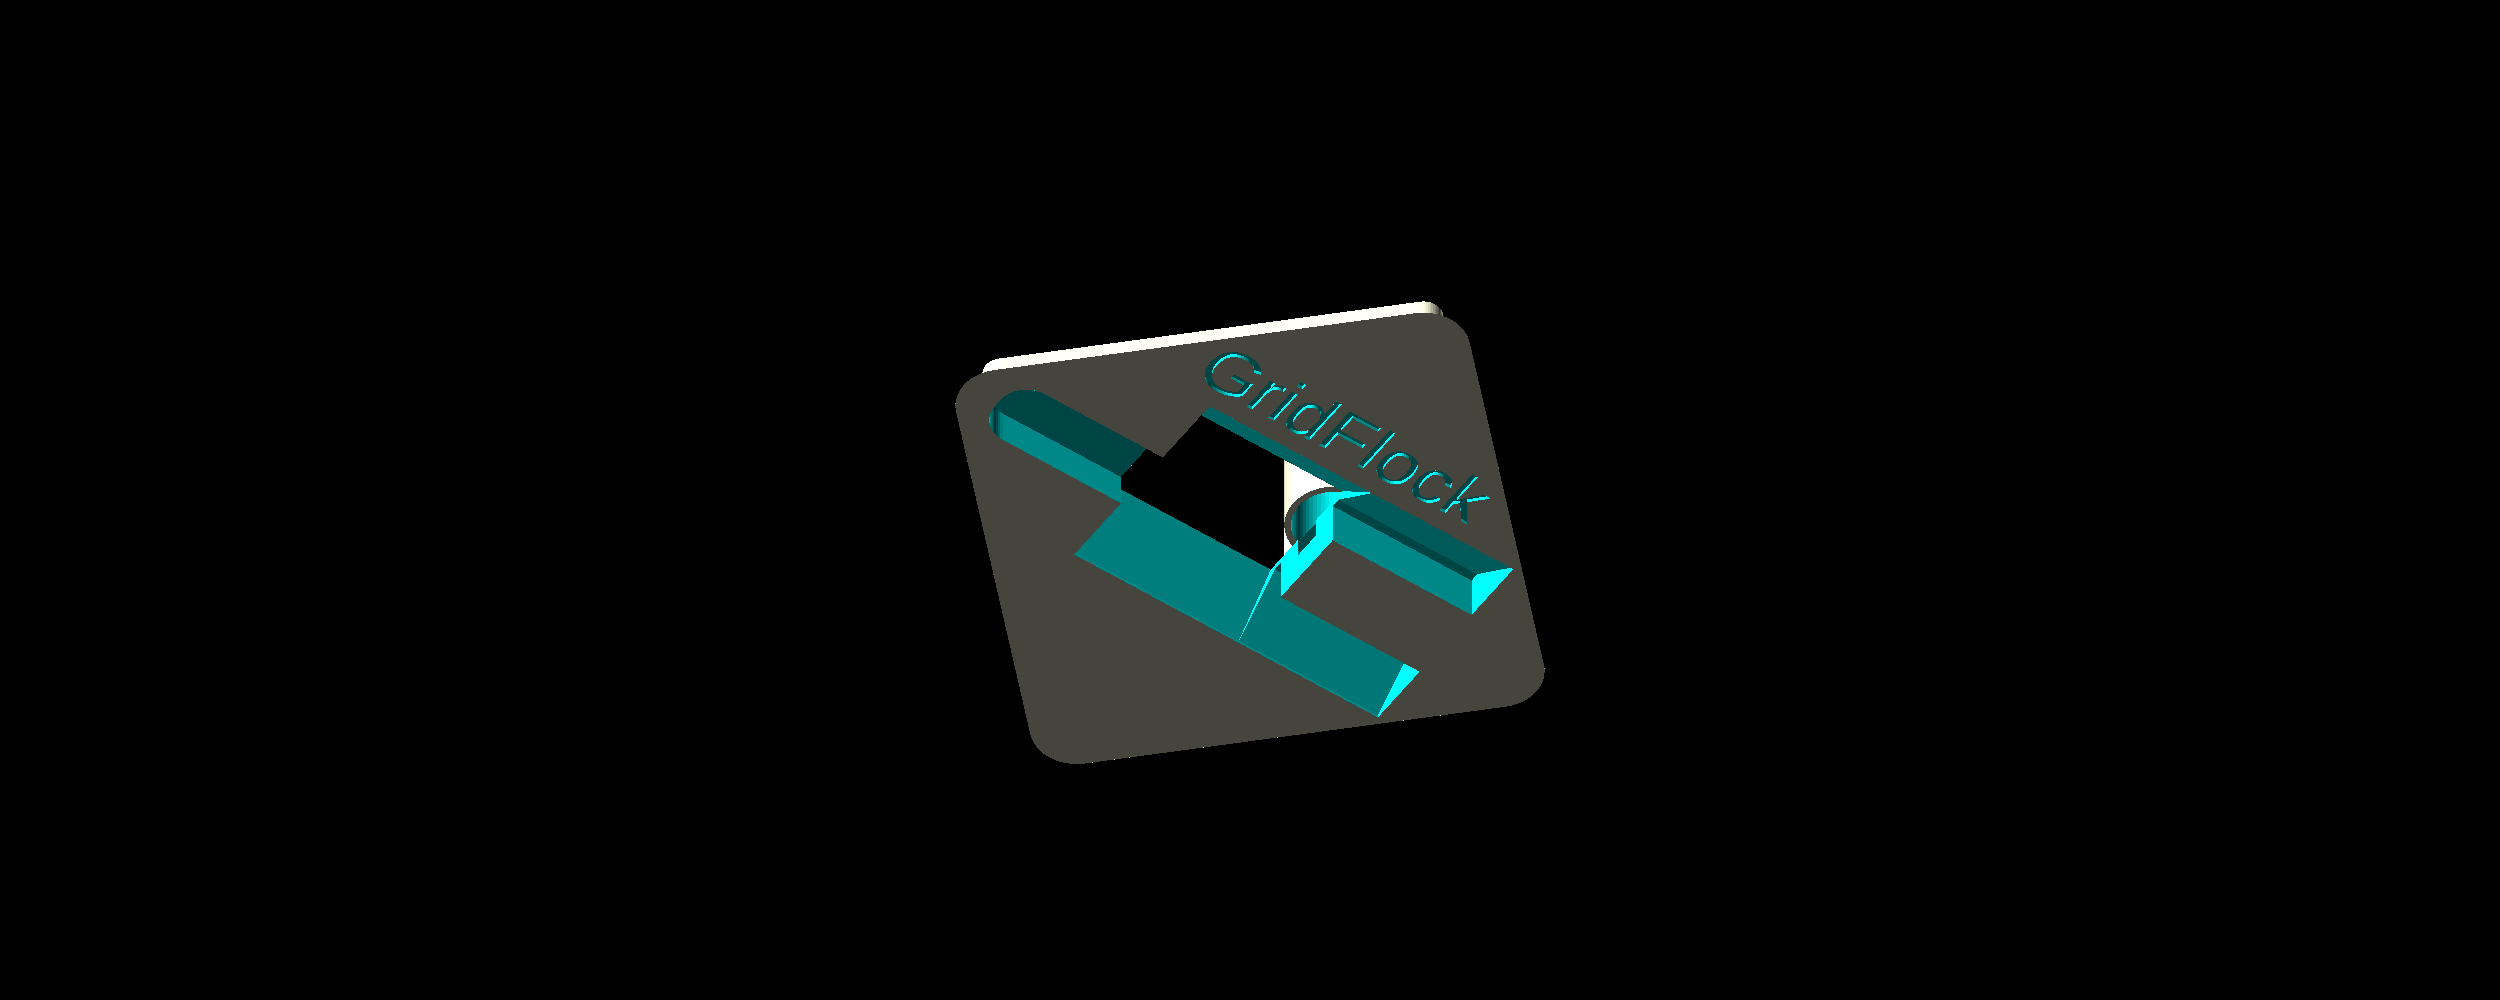
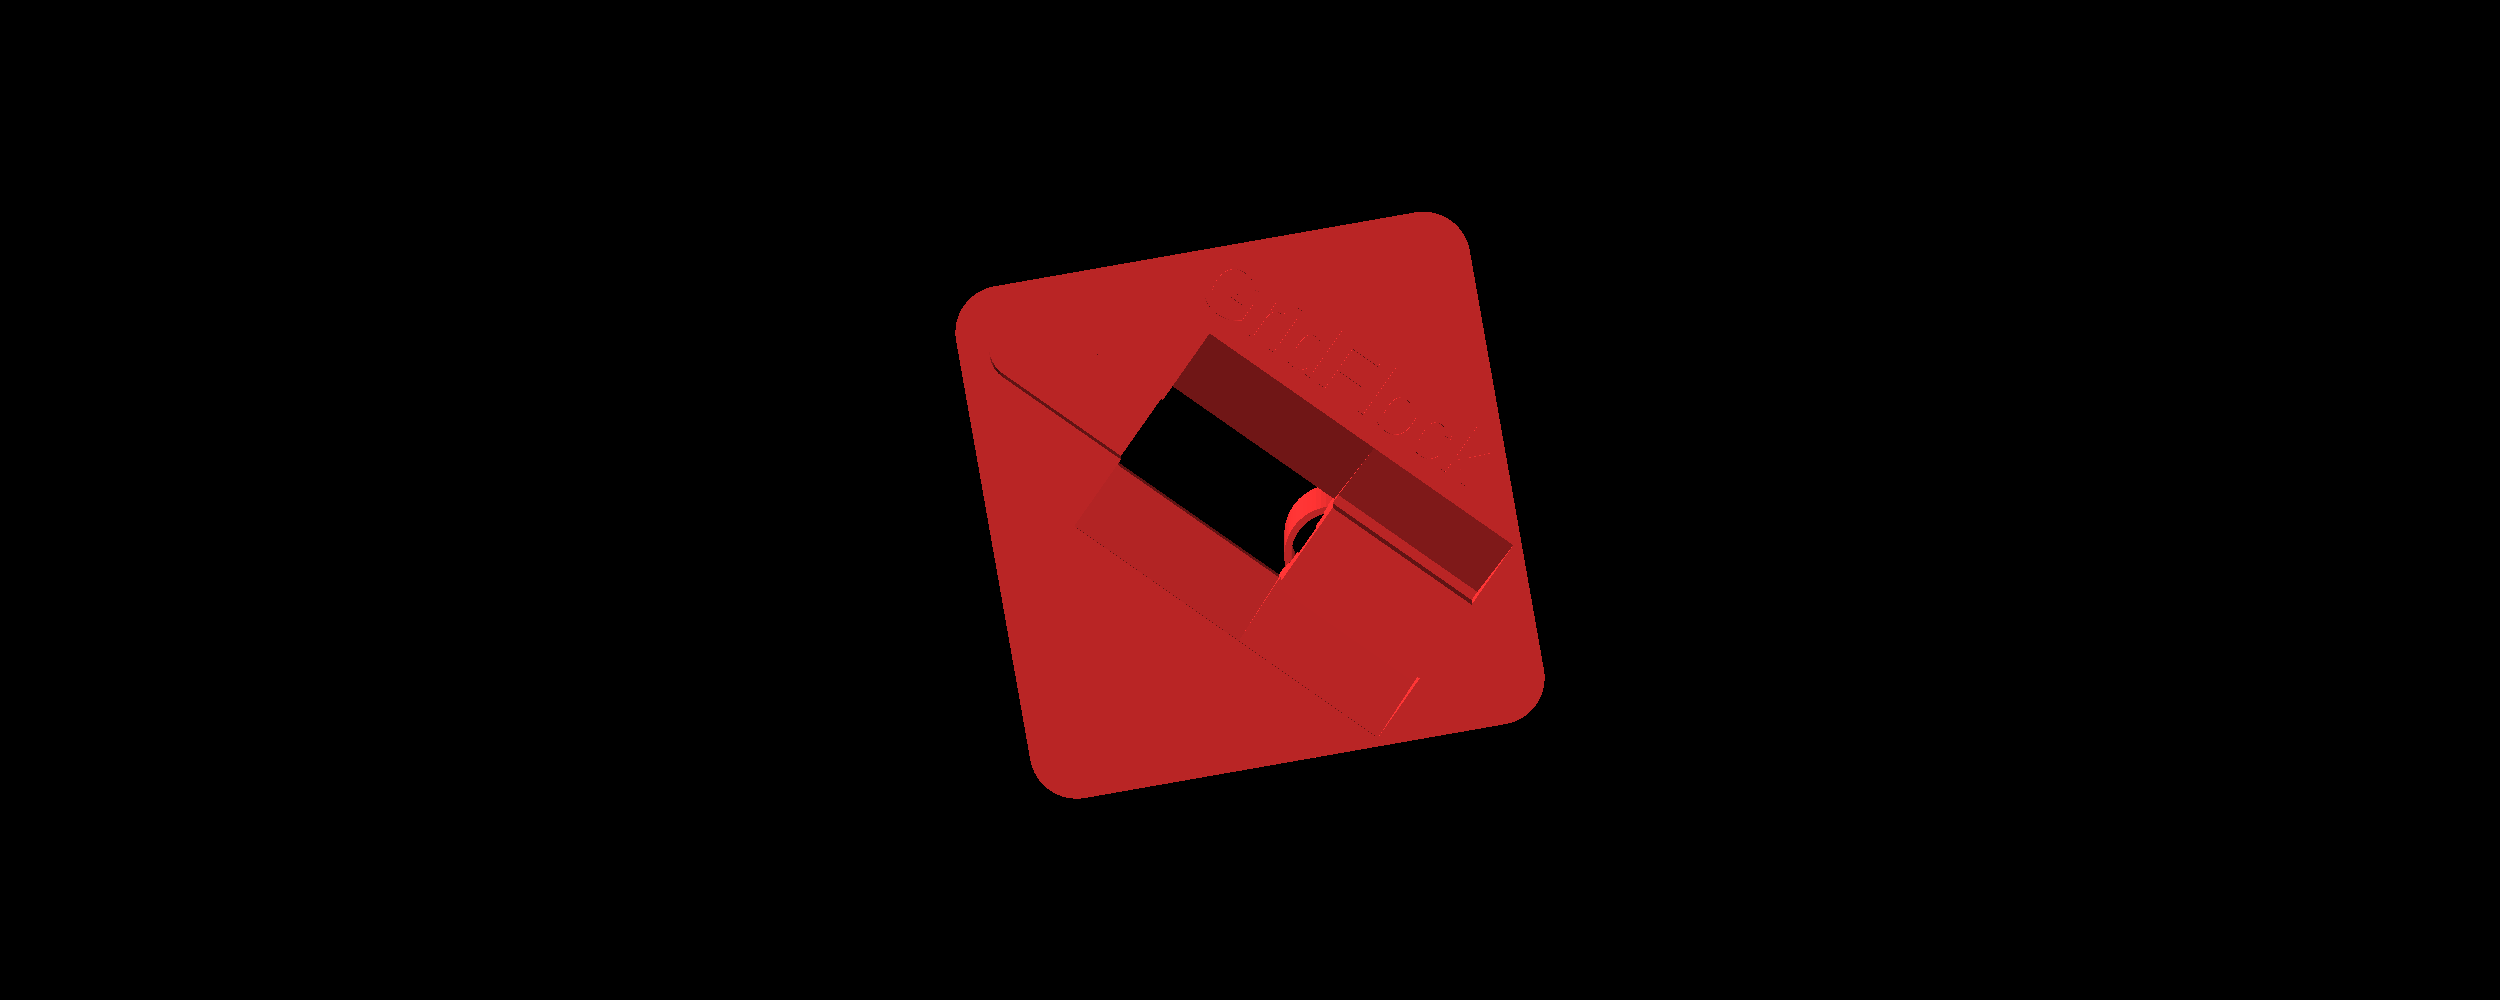
Make jig documentation renders predictable

Changed region(s): [[0.3744, 0.217, 0.624, 0.806]]

diff --git a/README.md b/README.md
@@ -224,10 +224,10 @@ Now you can use the pusher to insert the magnet into the baseplate:
 Pull the pusher back into its original position to release the baseplate. You can now turn the jig by 90° to insert the next magnet, and then move the baseplate to fill the next square with magnets.
 
 <!-- These images are generated for regression detection purposes. -->
-<!-- openscad -o docs/images/jig-main.png --backend=CGAL --camera=0,0,0,40,0,10,200 -D part='"jig"' mag_insert_jig.scad -->
-<!-- openscad -o docs/images/jig-pusher.png --backend=CGAL --camera=0,0,0,40,0,10,200 -D part='"pusher"' mag_insert_jig.scad -->
-<!-- openscad -o docs/images/jig-main-below.png --backend=CGAL --camera=0,0,0,140,0,10,200 -D part='"jig"' mag_insert_jig.scad -->
-<!-- openscad -o docs/images/jig-pusher-below.png --backend=CGAL --camera=0,0,0,140,0,10,200 -D part='"pusher"' mag_insert_jig.scad -->
+<!-- openscad -o docs/images/jig-main.png --camera=0,0,0,40,0,10,200 -D part='"jig"' mag_insert_jig.scad -->
+<!-- openscad -o docs/images/jig-pusher.png --camera=0,0,0,40,0,10,200 -D part='"pusher"' mag_insert_jig.scad -->
+<!-- openscad -o docs/images/jig-main-below.png --camera=0,0,0,175,0,10,200 -D part='"jig"' mag_insert_jig.scad -->
+<!-- openscad -o docs/images/jig-pusher-below.png --camera=0,0,0,140,0,10,200 -D part='"pusher"' mag_insert_jig.scad -->
 
 ### Release slot
 
